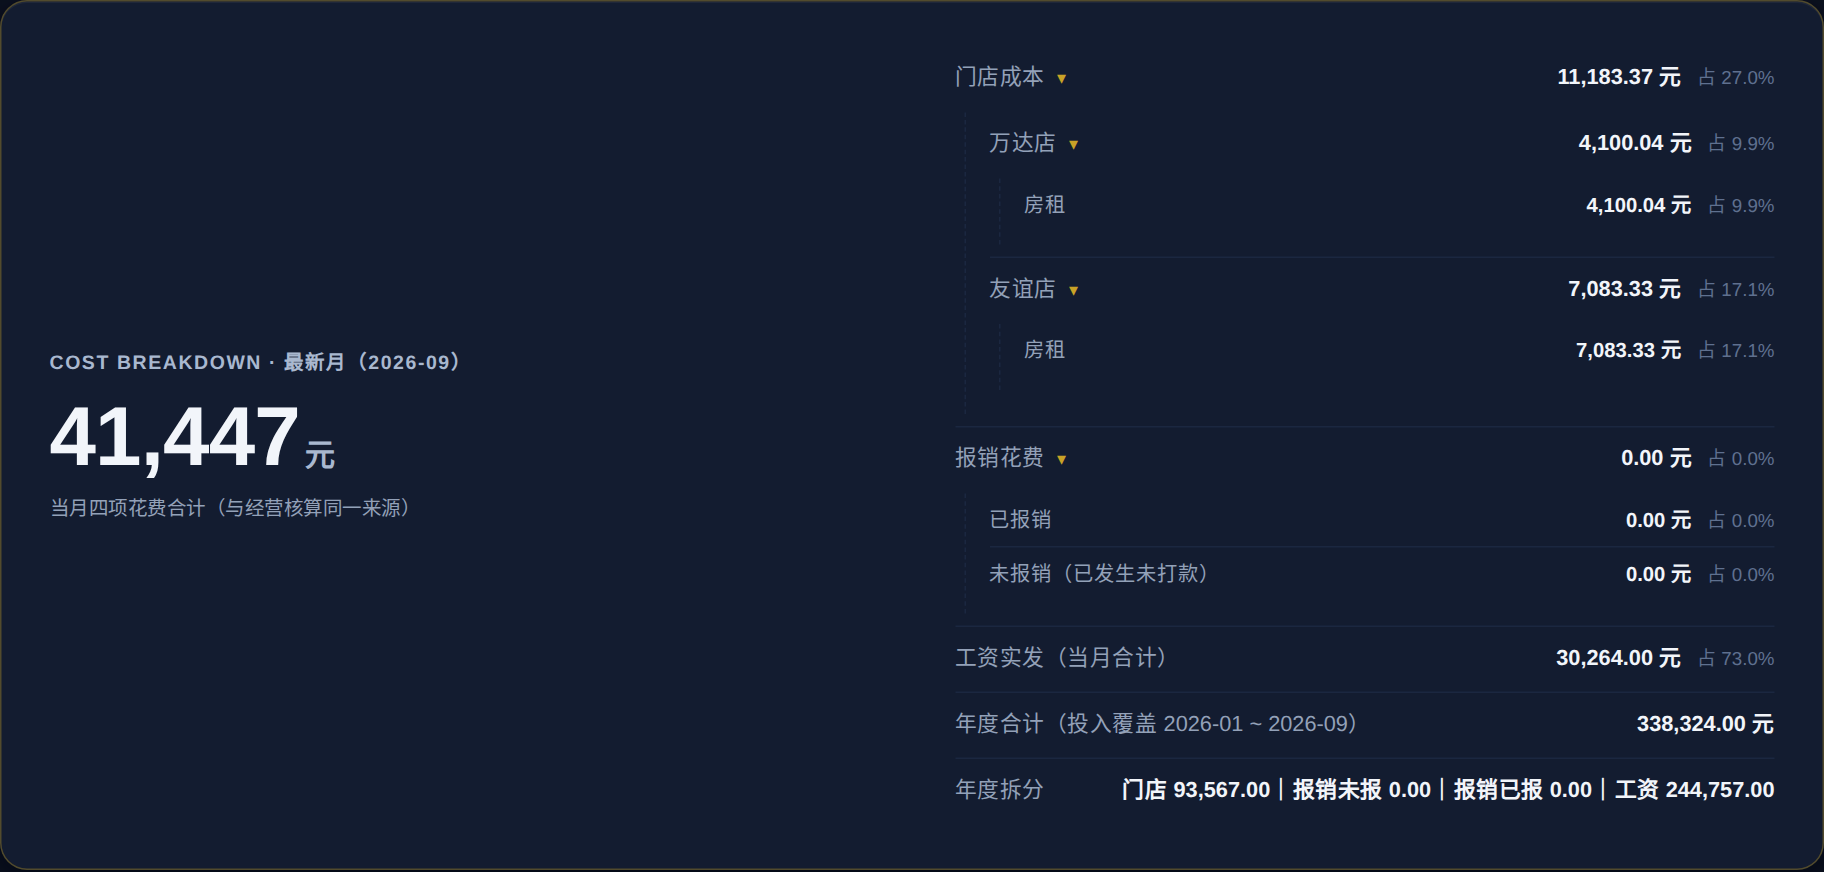
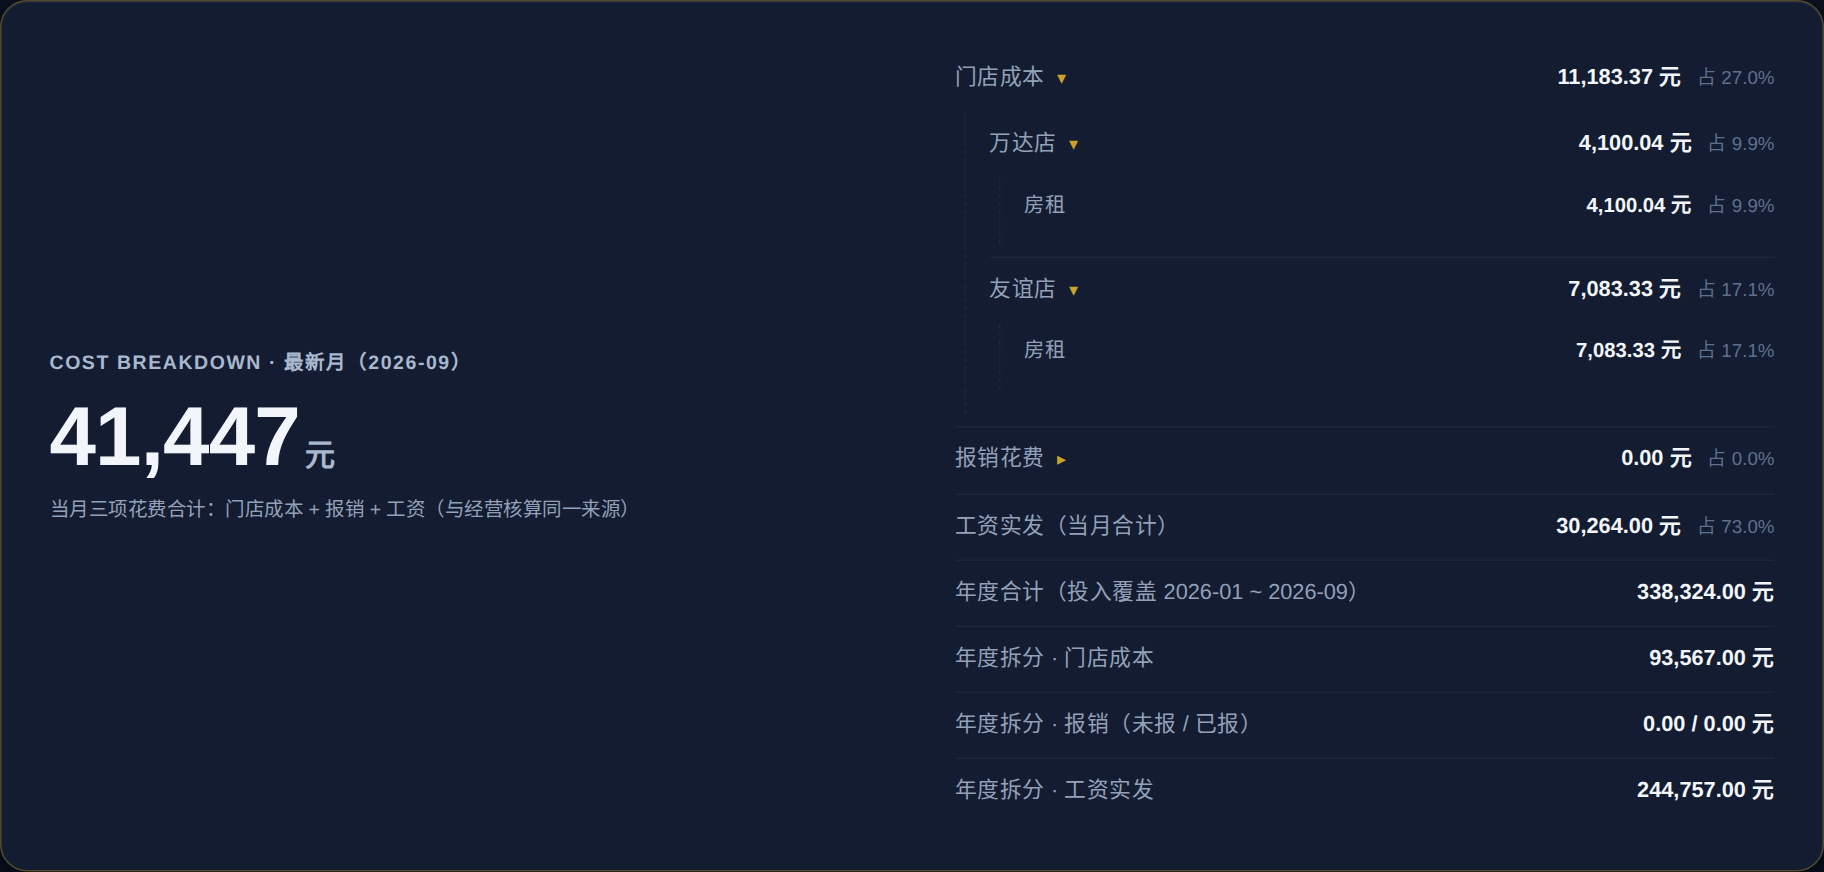
指令57-2 A7截图刷新机制：scripts/regression/capture-help-shots.mjs固化（桌面1440×1000@1.5视口/区块截图、手机390×844@2整页、固定滚动构图，npm run shots），实跑刷新8张。变化点：dashboard-drill入镜指令56-4的年度拆分三行（门店成本93,567.00/报销0.00/工资244,757.00）；expenses构图对齐筛选chips处（落在未报销、当前筛选小计入镜，口径不变）；其余5张与上轮字节一致、salary-rule-preview内容不变仅渲染像素微差。/help八处图注统一加「截图刷新：2

diff --git a/app/help/page.tsx b/app/help/page.tsx
@@ -33,7 +33,7 @@ export default async function HelpPage() {
               {/* eslint-disable-next-line @next/next/no-img-element */}
               <img src="/help-shots/overview.png" alt="总览：扣成本后净利、双利润率与年回报率一行" loading="lazy" />
             </a>
-            <figcaption>示例截图（演示数据）：总览英雄净利、双利润率与年回报率一行。点图看大图。</figcaption>
+            <figcaption>示例截图（演示数据）：总览英雄净利、双利润率与年回报率一行。截图刷新：2026-10-27；点图看大图。</figcaption>
           </figure>
         </div>
 
@@ -47,14 +47,14 @@ export default async function HelpPage() {
               {/* eslint-disable-next-line @next/next/no-img-element */}
               <img src="/help-shots/mobile-overview.png" alt="手机 390 宽总览：英雄净利、双利润率、年回报一行、月度目标与业务卡单列排布" loading="lazy" />
             </a>
-            <figcaption>示例截图（演示数据）：手机上的总览——卡片单列、数字不溢出。点图看大图。</figcaption>
+            <figcaption>示例截图（演示数据）：手机上的总览——卡片单列、数字不溢出。截图刷新：2026-10-27；点图看大图。</figcaption>
           </figure>
           <figure className="help-shot">
             <a href="/help-shots/mobile-expenses.png" target="_blank" rel="noreferrer">
               {/* eslint-disable-next-line @next/next/no-img-element */}
               <img src="/help-shots/mobile-expenses.png" alt="手机 390 宽报销页：汇总卡、建单表单、状态筛选与台账单列排布" loading="lazy" />
             </a>
-            <figcaption>示例截图（演示数据）：手机上的报销页——表单纵排、筛选 chips 同行、台账在卡片内滑动。点图看大图。</figcaption>
+            <figcaption>示例截图（演示数据）：手机上的报销页——表单纵排、筛选 chips 同行、台账在卡片内滑动。截图刷新：2026-10-27；点图看大图。</figcaption>
           </figure>
         </div>
 
@@ -265,7 +265,7 @@ export default async function HelpPage() {
               {/* eslint-disable-next-line @next/next/no-img-element */}
               <img src="/help-shots/costs-utilities.png" alt="门店成本页电费实报快捷区：门店、月份、电费金额与备注" loading="lazy" />
             </a>
-            <figcaption>示例截图（演示数据）：门店成本页「电费实报」快捷区，万达备注预填电表口径。点图看大图。</figcaption>
+            <figcaption>示例截图（演示数据）：门店成本页「电费实报」快捷区，万达备注预填电表口径。截图刷新：2026-10-27；点图看大图。</figcaption>
           </figure>
         </div>
 
@@ -304,7 +304,7 @@ export default async function HelpPage() {
               {/* eslint-disable-next-line @next/next/no-img-element */}
               <img src="/help-shots/salary-rule-preview.png" alt="工资页双版本预览：生效起始月未填时各月标待确认" loading="lazy" />
             </a>
-            <figcaption>示例截图（演示数据）：工资页「双版本预览」——生效起始月未填时逐月标「待确认」。点图看大图。</figcaption>
+            <figcaption>示例截图（演示数据）：工资页「双版本预览」——生效起始月未填时逐月标「待确认」。截图刷新：2026-10-27；点图看大图。</figcaption>
           </figure>
         </div>
 
@@ -344,7 +344,7 @@ export default async function HelpPage() {
               {/* eslint-disable-next-line @next/next/no-img-element */}
               <img src="/help-shots/expenses.png" alt="报销页：按状态筛选（全部 / 未报销 / 已报销）与当前筛选小计" loading="lazy" />
             </a>
-            <figcaption>示例截图（演示数据）：报销页状态筛选 chips（图中落在「未报销」）与当前筛选小计。点图看大图。</figcaption>
+            <figcaption>示例截图（演示数据）：报销页状态筛选 chips（图中落在「未报销」）与当前筛选小计。截图刷新：2026-10-27；点图看大图。</figcaption>
           </figure>
         </div>
 
@@ -420,14 +420,14 @@ export default async function HelpPage() {
               {/* eslint-disable-next-line @next/next/no-img-element */}
               <img src="/help-shots/dashboard-drill.png" alt="爱回收仪表盘公司花费拆分展开：门店成本按店与类型、报销已报未报、工资占比" loading="lazy" />
             </a>
-            <figcaption>示例截图（演示数据）：仪表盘「公司花费拆分」展开态——门店成本逐层下钻到门店与类型。点图看大图。</figcaption>
+            <figcaption>示例截图（演示数据）：仪表盘「公司花费拆分」展开态——门店成本逐层下钻到门店与类型。截图刷新：2026-10-27；点图看大图。</figcaption>
           </figure>
           <figure className="help-shot">
             <a href="/help-shots/compare.png" target="_blank" rel="noreferrer">
               {/* eslint-disable-next-line @next/next/no-img-element */}
               <img src="/help-shots/compare.png" alt="两店对比：友谊与万达同月分润、门店成本、净利与双利润率并排" loading="lazy" />
             </a>
-            <figcaption>示例截图（演示数据）：两店对比——同月双店大卡并排（分润、门店成本、扣成本后净利、双利润率）。点图看大图。</figcaption>
+            <figcaption>示例截图（演示数据）：两店对比——同月双店大卡并排（分润、门店成本、扣成本后净利、双利润率）。截图刷新：2026-10-27；点图看大图。</figcaption>
           </figure>
         </div>
 
